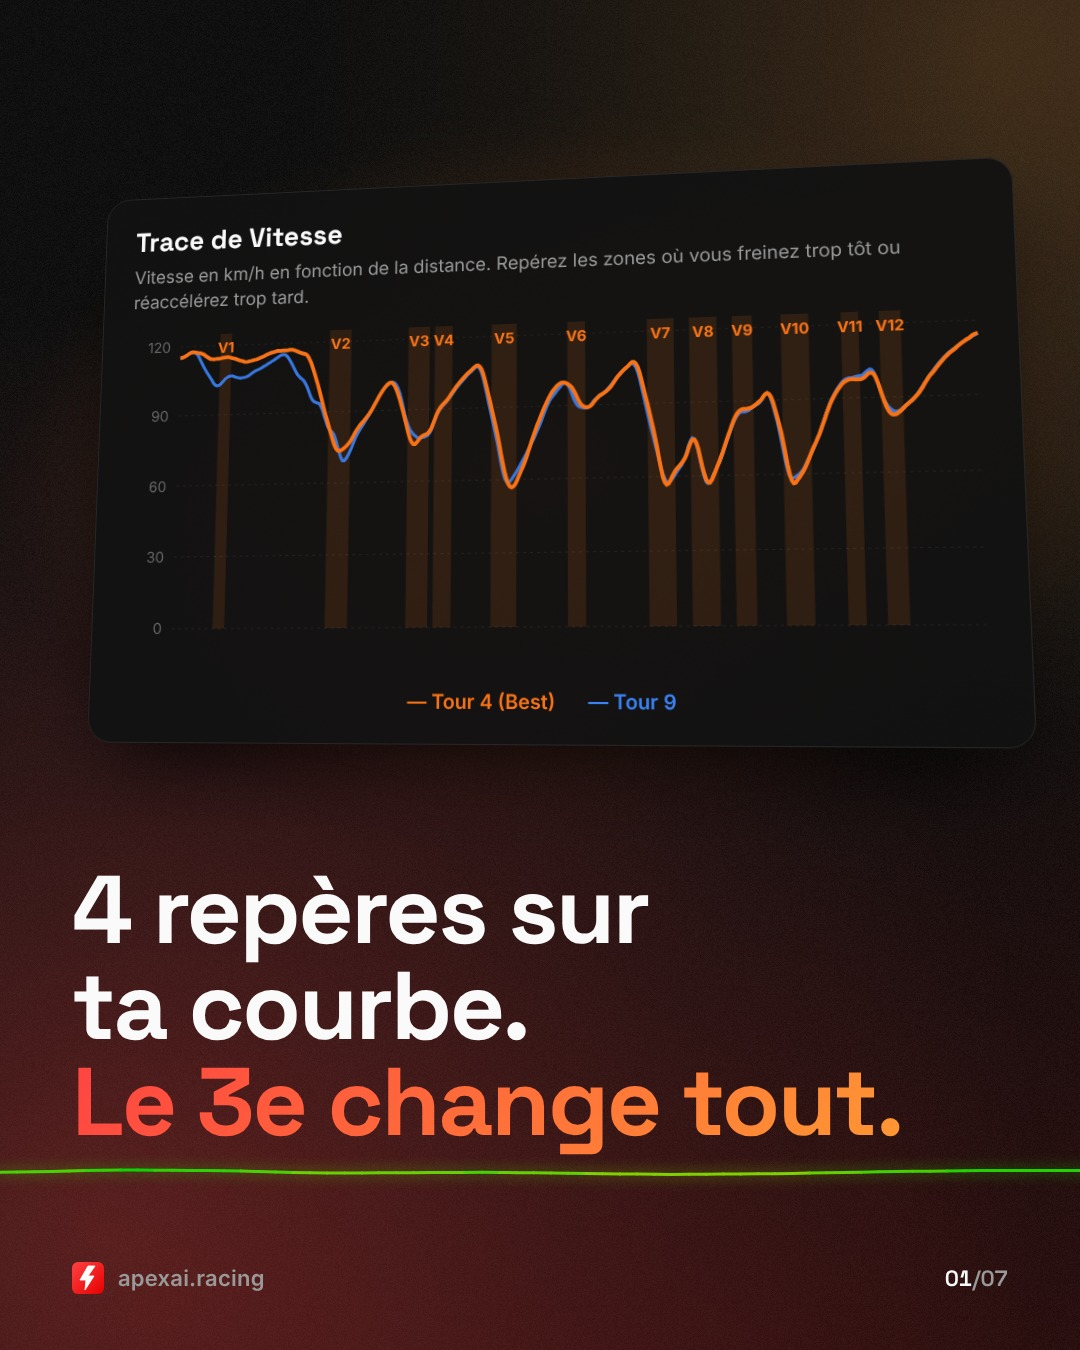
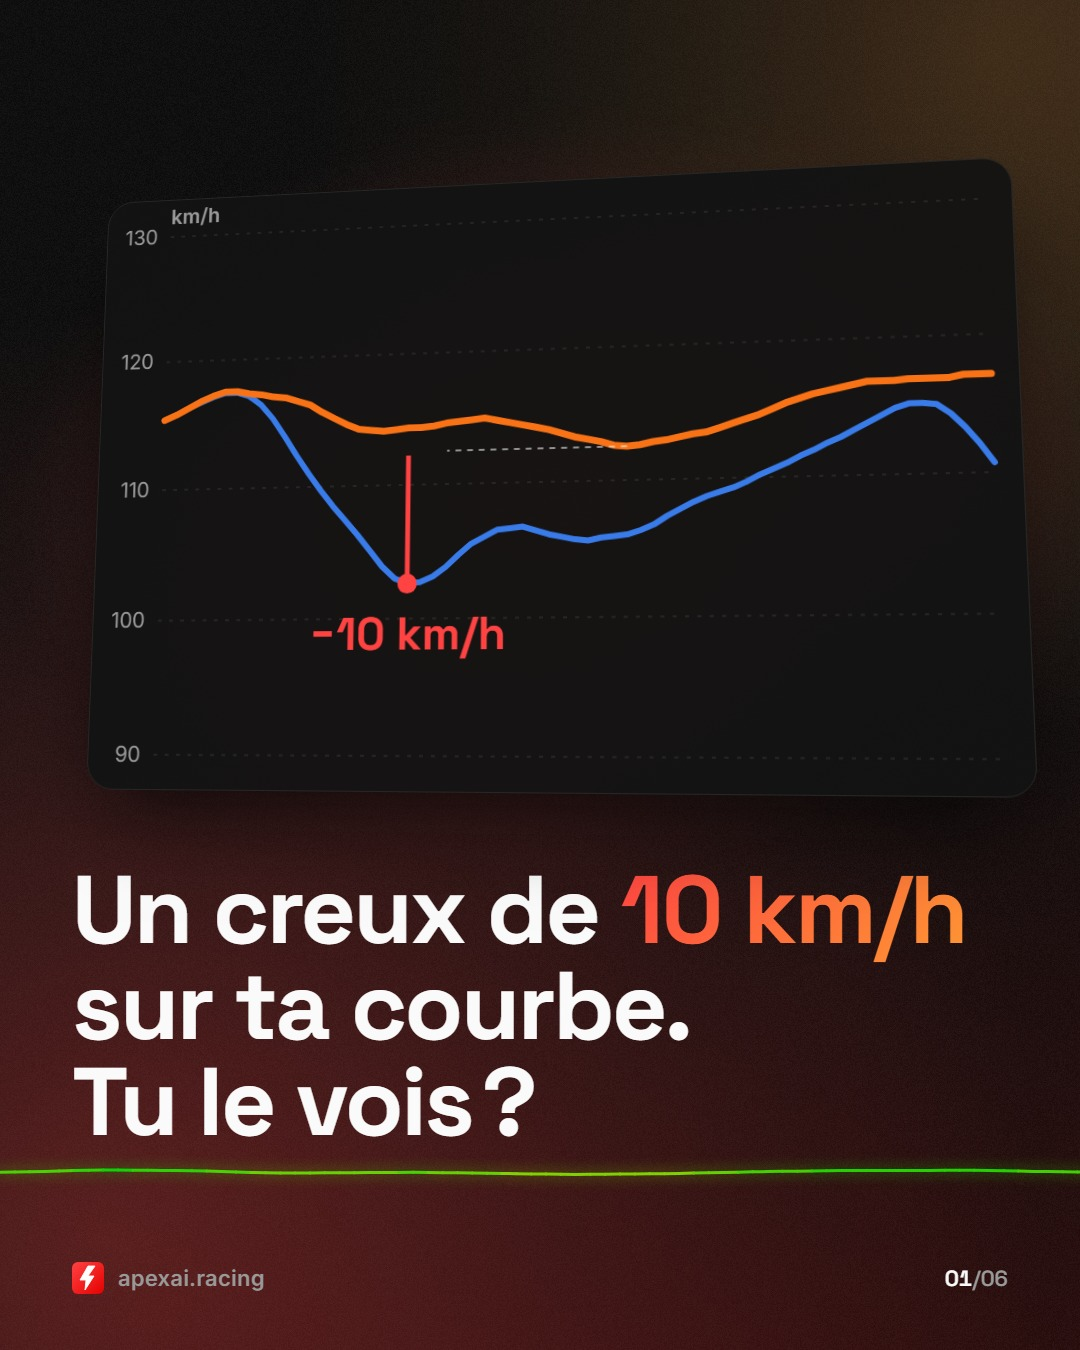
content-studio: carrousel 4 reperes corrige (6 slides, visuels sans legende de tours, chiffres sources, CTA fusionne)

diff --git a/apex-promo-video/apexai-video/src/social/visuals/index.tsx b/apex-promo-video/apexai-video/src/social/visuals/index.tsx
@@ -4,7 +4,7 @@ import { C, FONT, INK, alpha } from "../kit/tokens";
 import { fr } from "../kit/text";
 import { FloatingCard, SectorBar } from "../kit/elements";
 import { TrackMap } from "../../components/TrackMap";
-import { CORNERS, LOSS } from "../../lib/track";
+import { CORNERS, LOSS, PTS, speedToColor } from "../../lib/track";
 import { PerfectLapBanner, ScoreCard, StatCards } from "../../ui/AppUI";
 import { CalendarCard, CoachingCard, DeltaChart, KartHealthCard, KartSchematic, RadarChart, SetupTiresCard, SpeedTraceChart } from "../../ui/InsightsUI";
 import { AnalyzeButton, AnalyzingCard, DropZone, FileVignette, UploadHeader } from "../../ui/UploadUI";
@@ -23,6 +23,8 @@ export const VISUAL_IDS = [
   "file",
   "delta",
   "speed",
+  "speed-dip",
+  "speed-exit",
   "radar",
   "kart",
   "gauges",
@@ -52,6 +54,65 @@ const TraceZoom: React.FC<{ width: number; height: number; n: number; zoom: numb
   return (
     <div style={{ position: "relative", width, height, overflow: "hidden", borderRadius: 28, WebkitMaskImage: "radial-gradient(ellipse at center, black 45%, transparent 72%)", maskImage: "radial-gradient(ellipse at center, black 45%, transparent 72%)" }}>
       <div style={{ position: "absolute", left, top }}>{children(size)}</div>
+    </div>
+  );
+};
+
+
+/**
+ * Extrait de courbe de vitesse (sans légende de tours) : le creux au virage 1 (deux passages superposés,
+ * écart des vitesses mini annoté) ou la pente de réaccélération après le virage 5 (un seul passage).
+ * Source : adria-lap.json (points[i][2] = vitesse du meilleur tour, [5] = tour comparé).
+ */
+const SpeedCrop: React.FC<{ width: number; mode: "dip" | "exit" }> = ({ width, mode }) => {
+  const [a, b] = mode === "dip" ? [2, 66] : [178, 228];
+  const h = width * 0.66;
+  const padL = 70, padR = 28, padT = 40, padB = 36;
+  const w = width - padL - padR, ih = h - padT - padB;
+  const idx = Array.from({ length: b - a + 1 }, (_, k) => a + k);
+  const vals = idx.flatMap((i) => (mode === "dip" ? [PTS[i][2], PTS[i][5]] : [PTS[i][2]]));
+  const vmin = Math.floor((Math.min(...vals) - 4) / 10) * 10;
+  const vmax = Math.ceil((Math.max(...vals) + 4) / 10) * 10;
+  const X = (i: number) => padL + ((i - a) / (b - a)) * w;
+  const Y = (v: number) => padT + ih * (1 - (v - vmin) / (vmax - vmin));
+  const path = (col: 2 | 5) => `M${idx.map((i) => `${X(i).toFixed(1)},${Y(PTS[i][col]).toFixed(1)}`).join(" L")}`;
+  const grid: number[] = [];
+  for (let v = vmin; v <= vmax; v += 10) grid.push(v);
+  // Creux (vitesse mini) des deux passages entre les indices 11 et 56 (segment de perte du virage 1).
+  const argmin = (col: 2 | 5) => idx.filter((i) => i >= 11 && i <= 56).reduce((m, i) => (PTS[i][col] < PTS[m][col] ? i : m), 11);
+  const i4 = argmin(2), i9 = argmin(5);
+  const v4 = PTS[i4][2], v9 = PTS[i9][5];
+  const ax = X(i9);
+  return (
+    <div style={{ width, height: h, borderRadius: 28, background: alpha(C.card, 0.94), border: `1px solid ${C.border}`, boxShadow: `0 40px 80px -30px ${alpha(C.bgDeep, 0.85)}` }}>
+      <svg width={width} height={h} style={{ overflow: "visible" }}>
+        {grid.map((v) => (
+          <g key={v}>
+            <line x1={padL} x2={padL + w} y1={Y(v)} y2={Y(v)} stroke={alpha(C.text, 0.08)} strokeDasharray="4 8" strokeWidth={2} />
+            <text x={padL - 14} y={Y(v) + 7} textAnchor="end" fill={INK.muted} fontFamily={FONT.body} fontSize={22}>{v}</text>
+          </g>
+        ))}
+        <text x={padL} y={26} fill={INK.muted} fontFamily={FONT.body} fontSize={22} fontWeight={600}>km/h</text>
+        {mode === "dip" ? (
+          <>
+            <path d={path(5)} fill="none" stroke={C.blue} strokeWidth={6} strokeLinecap="round" strokeLinejoin="round" opacity={0.95} />
+            <path d={path(2)} fill="none" stroke={C.orangeChart} strokeWidth={7} strokeLinecap="round" strokeLinejoin="round" />
+            <line x1={X(i4)} x2={ax + 40} y1={Y(v4)} y2={Y(v4)} stroke={alpha(C.text, 0.55)} strokeWidth={2} strokeDasharray="6 6" />
+            <line x1={ax} x2={ax} y1={Y(v4) + 4} y2={Y(v9) - 6} stroke={C.primary} strokeWidth={5} />
+            <circle cx={ax} cy={Y(v9)} r={10} fill={C.primary} />
+            <text x={ax} y={Y(v9) + 66} textAnchor="middle" fill={C.primary} fontFamily={FONT.display} fontWeight={700} fontSize={46}>−10 km/h</text>
+          </>
+        ) : (
+          <>
+            {idx.slice(0, -1).map((i, k) => (
+              <line key={i} x1={X(i)} y1={Y(PTS[i][2])} x2={X(idx[k + 1])} y2={Y(PTS[idx[k + 1]][2])} stroke={speedToColor(PTS[i][2])} strokeWidth={8} strokeLinecap="round" />
+            ))}
+            <line x1={X(190)} y1={Y(PTS[190][2])} x2={X(218)} y2={Y(PTS[218][2])} stroke={alpha(C.text, 0.6)} strokeWidth={3} strokeDasharray="8 8" />
+            <circle cx={X(190)} cy={Y(PTS[190][2])} r={10} fill={C.text} />
+            <text x={X(203)} y={Y(82)} textAnchor="end" fill={C.text} fontFamily={FONT.display} fontWeight={700} fontSize={34}>la pente</text>
+          </>
+        )}
+      </svg>
     </div>
   );
 };
@@ -247,6 +308,10 @@ export const Visual: React.FC<{ id: VisualId; width: number; height?: number; ti
       return wrap(<DeltaChart k={width / 520} width={width} draw={1} />, C.blue);
     case "speed":
       return wrap(<SpeedTraceChart k={width / 520} width={width} draw={1} />, C.orangeChart);
+    case "speed-dip":
+      return wrap(<SpeedCrop width={width} mode="dip" />, C.primary);
+    case "speed-exit":
+      return wrap(<SpeedCrop width={width} mode="exit" />, C.orangeChart);
     case "radar":
       return wrap(<RadarChart k={width / 380} width={width} grow={1} />, C.orangeChart);
     case "kart": {
